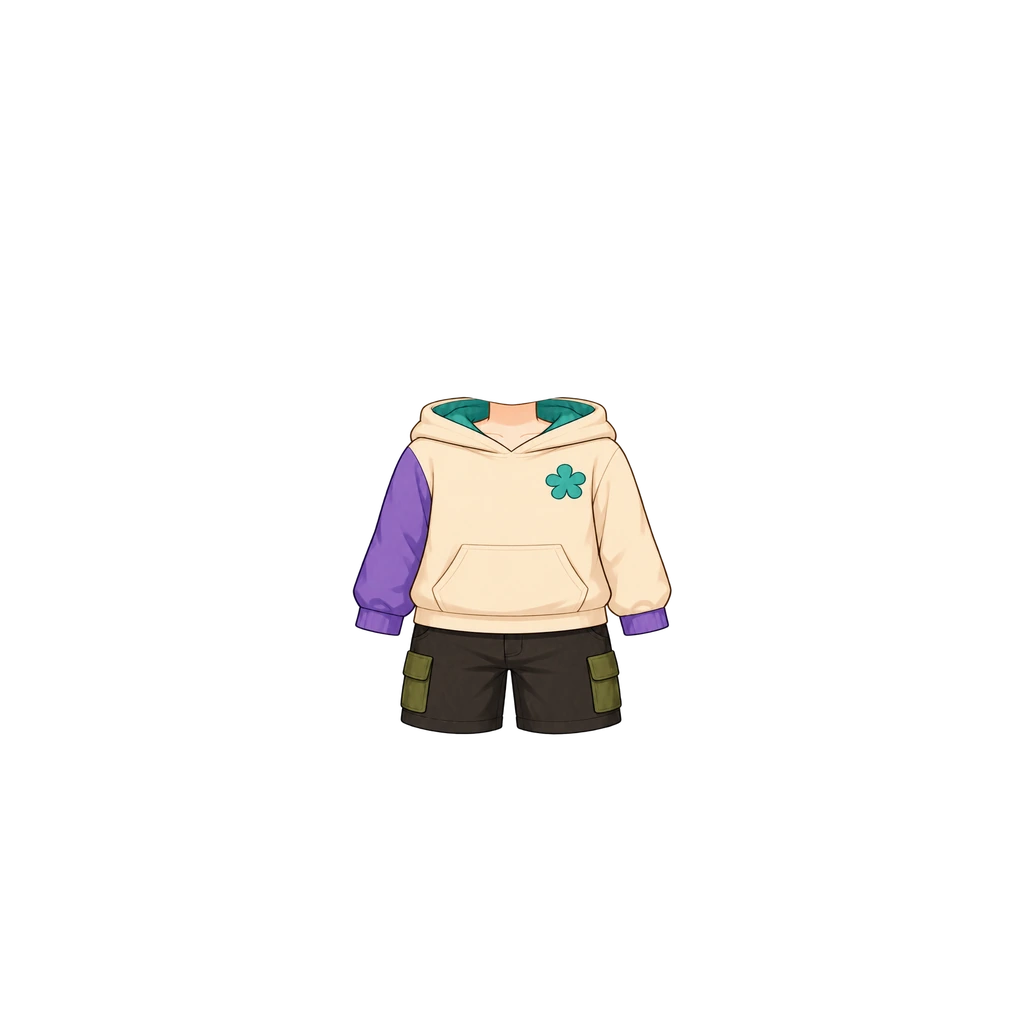
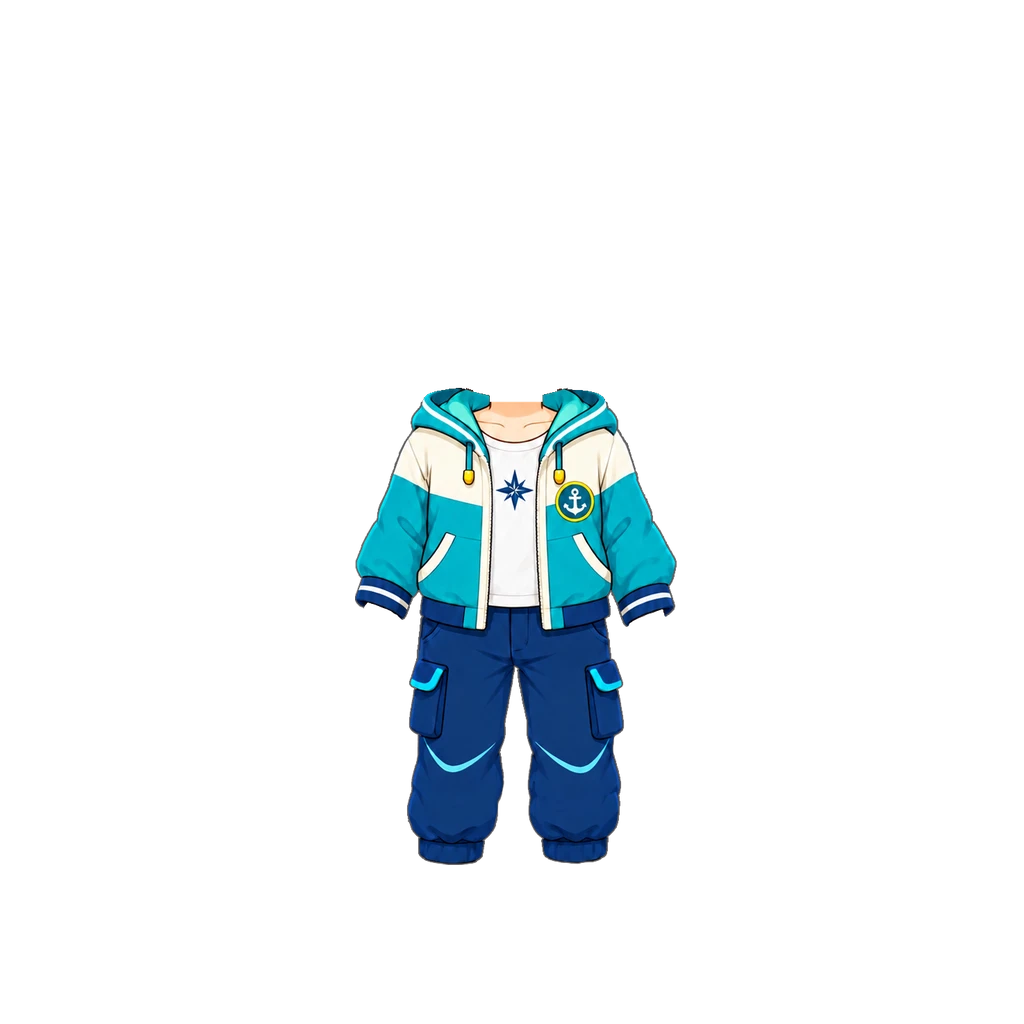
민트 후드(남아) 새 원화로 교체 (#745)
* 해적 신발 크기·위치 재조정 (베이스 다리 비율에 맞춤)

- 해적 남아 원화와 비교해 베이스가 다리가 짧고 가늘어서, 신발 높이를 112로
  줄이고 윗선을 y827에 맞춤(발바닥 y939)
- 왼짝·오른짝을 따로 배치해 발별로 미세 조정할 수 있게 함
- 같은 파일명이라 경로에 ?v=2

Claude-Session: https://claude.ai/code/session_018maNuYqDfFyRSe9uKpZhPR

* 오늘의 발견을 수첩에 붙인 메모지 디자인으로 변경

- 크림색 종이 질감 + 연두 마스킹테이프, 테두리 없이 그림자·거친 가장자리로만 표현
- 수첩보다 살짝 좁게, '오늘의 발견'은 작게 · 발견 내용은 진한 갈색으로 크게
- 도감 버튼을 오른쪽 작은 알약 버튼(도감 N개 ›)으로
- '탐험일지' 머리말 아래 · 수첩 바로 위로 이동
- App.jsx에서 DiscoveryMemo 컴포넌트로 분리

Claude-Session: https://claude.ai/code/session_018maNuYqDfFyRSe9uKpZhPR

* 오늘의 발견 메모지: 글씨 줄이고 테이프를 왼쪽 위 모서리 대각선으로

- 발견 내용 16.5 → 14 (폰에서 짧은 힌트도 두 줄로 꺾이던 문제), 머리말·도감 버튼·아이콘도 한 단계씩
- 위쪽 가운데 테이프가 '탐험일지' 머리말 줄과 겹쳐 보여 왼쪽 위 모서리에 대각선으로

Claude-Session: https://claude.ai/code/session_018maNuYqDfFyRSe9uKpZhPR

* 오늘의 발견 메모지: 힌트 날의 발자국 아이콘 제거

발자국 자리만큼 힌트가 한 줄에 더 들어가게 함. 찾은 날의 발견 이모지는 유지.

Claude-Session: https://claude.ai/code/session_018maNuYqDfFyRSe9uKpZhPR

* 남아 아바타 기본 몸체 새 버전으로 교체

사용자 제공 원화(갈색 짧은 머리)로 body.webp 업데이트.
버전을 v8 → v9로 올려 기존 기기 캐시 무효화.
art-src/body-boy-src.webp에 원본 보관 (webp q92).

Claude-Session: https://claude.ai/code/session_018maNuYqDfFyRSe9uKpZhPR

* 남아 베이스 v9 탑재 바로잡기 (머리 겹침·비율 깨짐 수정)

직전 커밋은 원화(머리 포함 전신)를 1024×1024로 통째로 늘려 body.webp에 넣어
베이스 머리가 그 위에 또 그려지고 몸 비율도 깨졌다. v8과 같은 공식으로 다시 탑재:
- 알파 상자를 v8 자리(y89~942, 가로 중심 512)에 맞춤 — 실루엣 IoU 0.976이라 장비 재조정 불필요
- y405에서 가로로 잘라 head/body, 합본 default까지 3장 교체, 경로 ?v=9
- art-src: base-v9-boy-src.webp로 이름 정리, 규칙 6에 따라 base-v8-boy-src 삭제
[…]

Changed region(s): [[0.3438, 0.375, 0.6562, 0.8438]]

diff --git a/src/data/avatarEquipment.js b/src/data/avatarEquipment.js
@@ -277,7 +277,10 @@ export const AVATAR_CATALOG = [
   /* [사용자 확정 2026-09-26] 이름을 '민트꽃 후드' → '민트 후드' 로 줄였다.
      id(top_hoodie_mint)는 그대로 둔다 — 보유·착용 기록이 id 로 저장돼 있어서
      바꾸면 이미 산 아이가 옷을 잃는다. */
-  { id: "top_hoodie_mint", slot: "top",  label: "민트 후드",    emoji: "🧥", price:DECOR_PRICE.rare, rarity: "rare", theme: "common", forGender: "boy", coversBottom: true, img: "assets/avatar/top/hoodie-boy.webp", thumb: "assets/avatar/thumb/top_hoodie.webp" },
+  /* [2026-10-02] 새 원화로 교체 (민트 집업 후드 + 흰 티 + 남색 카고 긴바지 한 벌, 사용자 원화).
+     원화 위쪽에 함께 그려진 턱으로 위치를 잡았다(배율 0.695 · 왼쪽 위 (355,365)) — 턱이 베이스 턱과 겹친다.
+     턱은 지우고 목 살은 턱선 아래(원화 y53~)부터 남겼다 — 다 지우면 구멍으로 베이스 민소매 끈이 비친다. */
+  { id: "top_hoodie_mint", slot: "top",  label: "민트 후드",    emoji: "🧥", price:DECOR_PRICE.rare, rarity: "rare", theme: "common", forGender: "boy", coversBottom: true, img: "assets/avatar/top/hoodie-boy.webp?v=2", thumb: "assets/avatar/thumb/top_hoodie.webp?v=2" },
   /* 도토리 탐험복 — 남아 (사용자 원화 2026-09-26). 크림 셔츠 + 나뭇잎 망토 +
      도토리 금브로치 + 가죽 벨트 + 갈색 카고 반바지.
      원화가 '옷만 오려 낸 깨끗한 그림'이라(연결 조각 1개·안쪽 구멍 0) 색으로

diff --git a/art-src/README.md b/art-src/README.md
@@ -359,7 +359,7 @@ getBoundingClientRect로 재서 정한다. 2026-08-05 점검에서 이 기준을
 | (딸기 소풍·별빛 마법사 재탑재 2026-09-25) | **원화가 언젠가 '옷만 오려 낸 깨끗한 그림'으로 바뀌어 있었는데 탑재본은 옛날 '색으로 떼어낸' 판 그대로였다.** 그래서 탑재본에는 손·목 조각과 **천에 뚫린 구멍**이 남아 있었다 (딸기 소풍: 안쪽 구멍 42개 10,954px — 깅엄의 흰 칸과 크림 블라우스가 통째로 날아가 있었다. 입은 모습에선 베이스의 흰 속옷이 블라우스 노릇을 해서 안 보였고, 상점 카드도 배경이 흰색이라 가려졌다). **패치가 아니라 깨끗한 원화에서 다시 올렸다.** 현재 자리를 지키려고 옛 탑재본과 색이 가장 잘 맞는 배율·오프셋을 찾아 썼다 (마법사 0.583/(263,-32) 색차 7.4 · 소풍 0.596/(259,-44) 색차 19.7, 덮임 97%). 새 상자 — 마법사 (353,356)-(667,755) · 소풍 (372,366)-(651,686). 경로에 `?v=2` 를 붙였다. **교훈: 원화가 새 판으로 바뀌면 탑재본도 같이 다시 올릴 것** | avatar/top/magic-outfit-girl.webp · picnic-outfit-girl.webp |
 | (신발·가방 검사 2026-09-25) | **신발 5종·가방 4종 모두 깨끗했다** (조각·구멍 없음, 흰·자홍 배경 둘 다 확인). 다만 **아홉 개 다 상점에 없다** — 2026-08-20 사용자 확정으로 뺀 은퇴 아이템이고 그림만 남겨 둔 것이다(RETIRED_ITEM_INFO 참고). 하의 3종(크림·데님·카키 반바지)도 같다. 다시 넣게 되면 그대로 쓸 수 있다 | (미탑재 — 파일만 보관) |
 | (모자 2종 청소 2026-09-25) | **해적 모자·딸기 밀짚모자** — 원화가 '쓰고 있는 머리 그림'이라 색으로 얼굴을 떼어냈는데 조각이 남아 있었다. 해적 모자는 **두 눈과 앞머리가 통째로** 붙어 있어 상점 카드가 '눈 달린 모자'였다. 쓴 모습에선 베이스 얼굴과 겹쳐 안 보여 여태 안 드러났다. 모자색(남색 b−r>8 / 주황 r−g>60 & r>200)으로 고갱이를 잡고 3px 부풀려 윤곽선을 되찾은 뒤, 가장 큰 덩어리만 남기고 챙 아래 갈색(r−b>25, r<195)을 털었다 — 5,966+920px. 밀짚모자는 같은 방식이 **챙 윤곽선까지 갉아먹어서**(윤곽 lum≈150, 머리카락 lum≈50) 밝기로 갈랐다: y≥158 에서 lum<120 & r−b>35 만 제거 (2,112px + 부스러기 39px). 사파리 머리띠는 10px뿐이라 그대로 뒀다. 경로에 `?v=2` | avatar/hat/pirate-hat-girl.webp · picnic-hat-girl.webp |
-| hoodie-boy-src.webp | **민트 후드 원화 남아 (사용자 원화 2026-09-25 · 이름 '민트꽃 후드'에서 줄임 2026-09-26)** — 852×1846 캔버스에 **옷만 오려 낸 깨끗한 그림**(연결 조각 1개, 안쪽 구멍 0). 크림 후드 + 왼팔만 보라 소매 + 민트 후드 안감·꽃 패치 + 짙은 카고 반바지. 받은 파일에 캔버스 전체로 퍼진 **알파 1~59 짜리 찌꺼기 7,610px** 이 있어 알파<20 을 0 으로 눌러 보관했다(그 전 알파 상자 (57,37)-(829,1728) → 정리 후 (109,661)-(748,1412)). **후드 안쪽 목·가슴 살은 일부러 남겼다** — 후드 구멍이 베이스 목(폭 58~62)보다 훨씬 넓어 살을 지우면 뻥 뚫린다(우주복 깃과 반대 경우). 배율 가로 0.50 · 세로 0.45 · 후드 위끝 y396 → 탑재 상자 (350,394)-(674,737) · 소매부리 y635 · 반바지 밑단 y737 | avatar/top/hoodie-boy.webp |
+| hoodie-boy-src.webp | **민트 후드 원화 남아 — 새 판 (사용자 원화 2026-10-02, 이전 판 교체)**. 465×720 투명 배경, 민트 집업 후드 + 흰 티 + 남색 카고 긴바지 한 벌. 위쪽에 베이스 턱·목이 함께 그려져 있어 그 턱으로 위치를 잡았다: 턱+목(원화 y0~100 · x95~365, 살색·갈색 선 마스크)을 베이스 민머리 몸에 마스크 템플릿 매칭 → 배율 0.695 · 왼쪽 위 (355,365). 탑재 전 열마다 맨 아래 살색까지의 살색·갈색·반투명 픽셀을 지워 턱을 없앤 뒤, 목 살은 원화 y53 아래부터 되살렸다 (다 지우면 목 구멍으로 베이스 민소매 끈이 비침 · y55 는 이음새 줄이 보임). 위쪽 부스러기 조각 제거 → 조각 1개. 속옷 비침 0. 탑재 상자 (355,385)-(678,865). 경로 ?v=2 | avatar/top/hoodie-boy.webp · thumb/top_hoodie.webp |
 | acorn-boy-src.webp | **도토리 탐험복 원화 남아 (사용자 원화 2026-09-26)** — 860×1829 캔버스에 **옷만 오려 낸 깨끗한 그림**(연결 조각 1개, 안쪽 구멍 0). 크림 셔츠 + 나뭇잎 망토 + 도토리 금브로치 + 가죽 벨트 + 갈색 카고 반바지. 민트 후드와 똑같이 캔버스 전체로 퍼진 **알파 1~19 짜리 찌꺼기 9,398px** 이 있어 눌러서 보관했다(정리 후 알파 상자 (79,527)-(781,1377)). **배율 0.42 균등** · 망토 위끝 y383 → 탑재 상자 (366,383)-(661,740). 배율은 **사파리 옷 남아에 맞춰** 잡았다 — 소매부리 폭 293px, 상자 x366~661 로 둘이 거의 같은 자리에 온다(사파리 (366,386)-(659,742)). 같은 몸에 입히는 같은 종류의 옷이라 자리가 어긋나면 갈아입을 때 튄다. **망토 깃 안쪽 목·가슴 살은 남겼다** — 깃 구멍(폭 39)이 베이스 목(폭 67)보다 좁아서 살을 지우면 깃 사이로 구멍이 보인다(민트 후드와 같은 이유, 우주복 깃과 반대). 자홍 검사 통과(조각 1·구멍 0) | avatar/top/acorn-outfit-boy.webp |
 | expedition/item/{lantern,rope,lunchbox,bottle,compass,torch,map}-src.webp | **탐험 준비물 원화 7종 (사용자 원화 2026-09-26~27)** — 88~184px 짜리 작은 그림. 받은 PNG 에 편집기 전용 청크(caBX·eXIf·sBIT·sRGB)가 들어 있어 **PIL 이 파일을 아예 못 열었다** — IHDR·IDAT·IEND 만 남겨 다시 쓰고 나서야 읽혔다(보관본은 그 정리본). **바깥 실루엣은 이미 따여 있었지만 안쪽에 갇힌 흰 배경이 남아 있었다** — 랜턴 손잡이 안·유리 양옆 기둥 사이(3곳 1,574px), 물통 어깨끈 고리 안(3곳 1,035px), 나침반 고리 안(264px), 도시락 손잡이 고리 안(111px). 밧줄·횃불은 깨끗했다. **하이라이트와 배경을 가르는 기준: 덩어리 둘레가 어두운 윤곽선인가.** 배경은 59~86%가 어두운 윤곽선에 둘러싸여 있고, 물통 유리의 흰 반사는 0~8% 였다(물건 색 위에 바로 얹혀 있어서). 지운 자리에 맞닿은 반투명 흰 테도 흰 정도만큼 알파를 깎았다. 배포 높이 96 (배지는 16px 로 그려진다 — 3배 화면까지 넉넉). **[2026-09-27] 보물지도 추가** — 이건 안쪽 흰 배경도 없이 처음부터 깨끗했지만(조각 1·구멍 0), 대신 **알파 1~19 짜리 헤일로 9,508px** 이 있어 알파 상자가 1220×947 → 1254×1206 으로 늘어났다. 안 누르고 자르면 세로로 27% 눌린 지도가 된다(성장 캐릭터와 같은 함정). 7장 합계 **43.5KB** | assets/expedition/item/*.webp |
 | (탈것 64장 갇힌 배경 점검 2026-09-27) | 준비물에 쓴 '갇힌 흰 배경 지우기'를 **탈것 32종 × 남녀 64장 전체**에 돌렸다. **결과: 진짜 갇힌 배경은 홍학 한 종뿐이었다** — 접은 다리와 몸 사이 쐐기(남아 597px · 여아 596+486px). 지우고 가장자리 흰 테도 깎았다. **나머지는 전부 '흰 물건'이라 손대면 안 된다** — 구름(14,915px)·얼음 미끄럼틀(40,450px)·유성 꼬리·돌고래 배·고래 물줄기·돛·오토바이 흙먼지·순록 배·로켓 몸통·유니콘 몸통·수정 하이라이트. 자동 판정으로는 이 둘을 못 가른다 — 준비물에 통했던 '둘레가 어두운 윤곽선인가'도, '투명한 바깥에 닿는가'도 여기선 다 걸린다(만화 그림은 흰 물건에도 윤곽선이 있다). 그래서 **150px 이상 후보 88개를 하나씩 눈으로 보고** 골랐다. 앞으로도 탈것은 자동 일괄 처리 금지 — 후보를 뽑아 보고 고를 것 | assets/expedition/ride/flamingo{,-girl}.webp |
